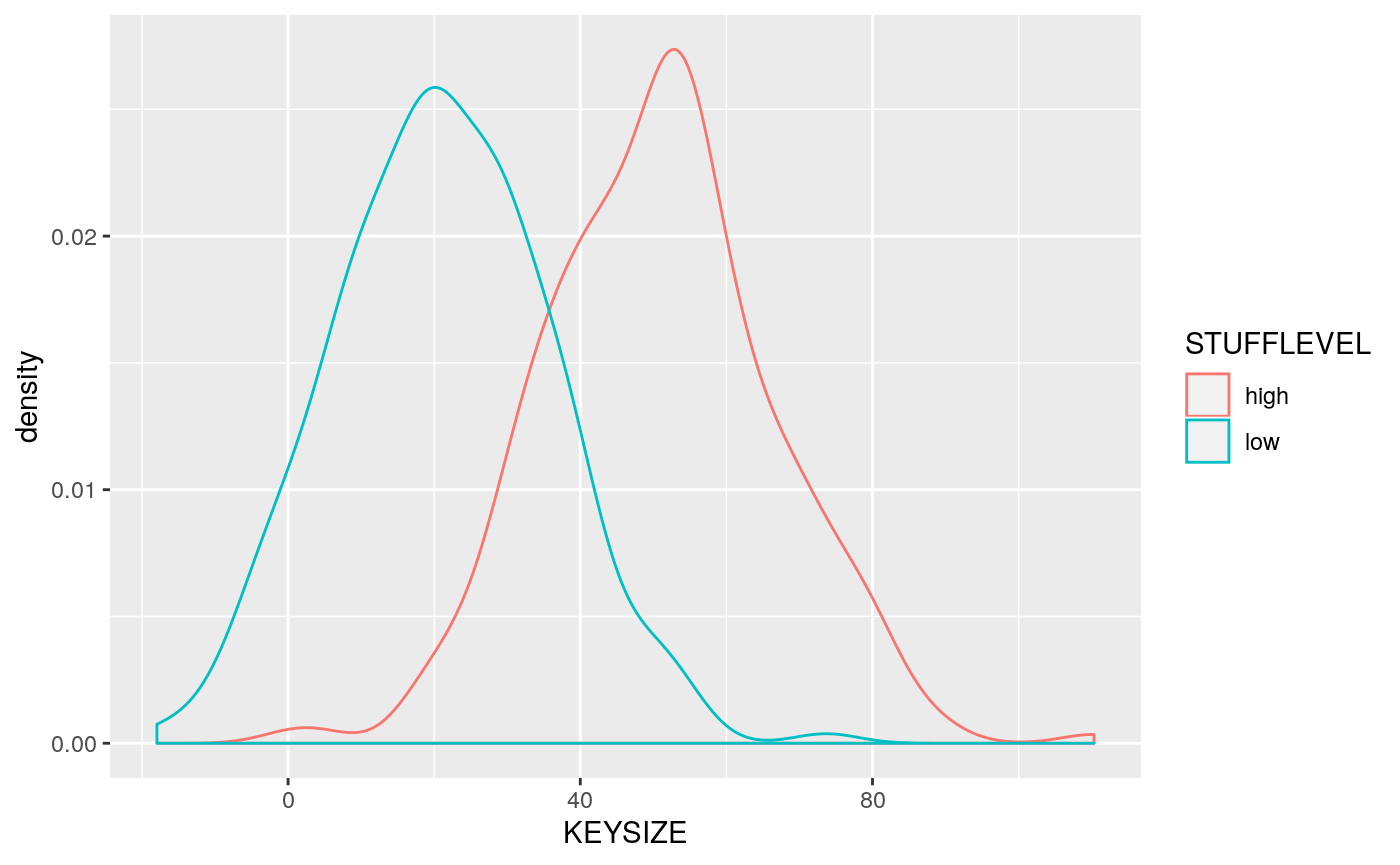
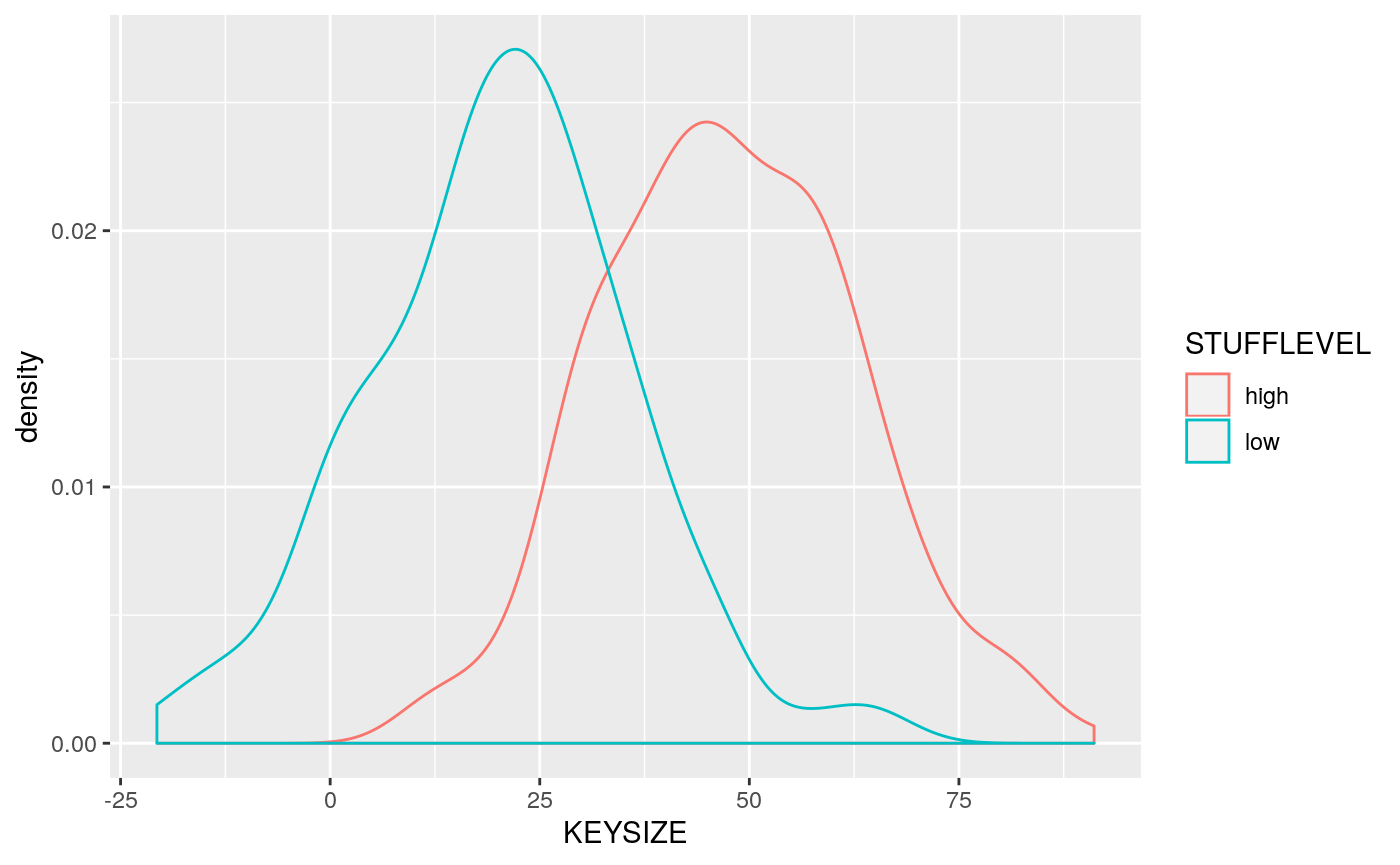
[skip ci] Publish GiHub Pages

diff --git a/articles/creating_synth_relational_data.html b/articles/creating_synth_relational_data.html
@@ -194,13 +194,13 @@
 <pre><code>## [1] "ID"          "STUFFLEVEL"  "KEYSIZE"     "ACCT_OPEN"   "ACCT_CLOSED"
 ## [1] "ID"          "STUFFLEVEL"  "KEYSIZE"     "ACCT_OPEN"   "ACCT_CLOSED"</code></pre>
 <div class="sourceCode" id="cb5"><pre class="sourceCode r"><code class="sourceCode r"><a class="sourceLine" id="cb5-1" data-line-number="1"><span class="kw"><a href="https://rdrr.io/r/utils/head.html">head</a></span>(sillydata)</a></code></pre></div>
-<pre><code>##      ID STUFFLEVEL   KEYSIZE           ACCT_OPEN         ACCT_CLOSED
-## 1 ID001        low  2.811080 2016-04-21 00:49:48                &lt;NA&gt;
-## 2 ID002        low 50.001182 2015-07-26 04:24:51 2019-07-12 04:33:41
-## 3 ID003        low  3.049715 2015-07-15 23:54:04                &lt;NA&gt;
-## 4 ID004       high 34.198571 2017-02-23 09:35:30 2020-12-21 12:42:29
-## 5 ID005        low 16.847966 2021-01-15 13:22:12                &lt;NA&gt;
-## 6 ID006       high 26.533729 2020-05-23 22:47:14                &lt;NA&gt;</code></pre>
+<pre><code>##      ID STUFFLEVEL  KEYSIZE           ACCT_OPEN         ACCT_CLOSED
+## 1 ID001       high 35.81611 2020-09-18 18:35:48                &lt;NA&gt;
+## 2 ID002       high 50.21808 2021-05-09 23:37:30                &lt;NA&gt;
+## 3 ID003        low 62.29862 2017-01-25 15:13:23 2020-04-01 08:29:49
+## 4 ID004        low 14.94920 2017-03-28 12:47:08                &lt;NA&gt;
+## 5 ID005       high 57.76937 2015-07-07 04:20:34                &lt;NA&gt;
+## 6 ID006        low 26.30120 2017-03-20 19:11:29 2018-08-28 20:02:48</code></pre>
 <p>We can see that the conditional distribution worked by plotting the data densities for each <code>STUFFLEVEL</code> value</p>
 <div class="sourceCode" id="cb7"><pre class="sourceCode r"><code class="sourceCode r"><a class="sourceLine" id="cb7-1" data-line-number="1"><span class="kw"><a href="https://rdrr.io/r/base/message.html">suppressPackageStartupMessages</a></span>(<span class="kw"><a href="https://rdrr.io/r/base/library.html">library</a></span>(ggplot2))</a>
 <a class="sourceLine" id="cb7-2" data-line-number="2"></a>
@@ -296,13 +296,13 @@
 ## [6] "BUYID"       "BUYDATE"     "PRODUCTID"   "DESC"       
 ## [1] "ID"        "BUYID"     "BUYDATE"   "PRODUCTID" "DESC"</code></pre>
 <div class="sourceCode" id="cb12"><pre class="sourceCode r"><code class="sourceCode r"><a class="sourceLine" id="cb12-1" data-line-number="1"><span class="kw"><a href="https://rdrr.io/r/utils/head.html">head</a></span>(buysdf)</a></code></pre></div>
-<pre><code>##      ID BUYID             BUYDATE PRODUCTID         DESC
-## 2 ID001    76 2016-09-15 10:30:54     PROD2 HLight Fluid
-## 1 ID001    85 2016-11-01 13:22:11     PROD1       Doodad
-## 5 ID001   197 2017-11-19 14:52:03     PROD2 HLight Fluid
-## 4 ID001  1022 2021-01-27 21:26:34     PROD1       Doodad
-## 3 ID001  1241 2021-06-04 06:00:48     PROD5     Thingbat
-## 7 ID004   142 2017-05-01 15:48:44     PROD5     Thingbat</code></pre>
+<pre><code>##      ID BUYID             BUYDATE PRODUCTID        DESC
+## 1 ID001   808 2020-10-04 12:12:15     PROD5    Thingbat
+## 2 ID001   896 2020-12-30 08:31:47     PROD1      Doodad
+## 3 ID001   946 2021-02-01 19:07:33     PROD4     Spanner
+## 4 ID001  1145 2021-05-23 14:48:34     PROD6 Thingbat v2
+## 7 ID002  1119 2021-05-14 09:42:45     PROD6 Thingbat v2
+## 5 ID002  1124 2021-05-15 05:12:53     PROD4     Spanner</code></pre>
 </div>
 </div>
   </div>

diff --git a/reference/lookup_fun.html b/reference/lookup_fun.html
@@ -149,16 +149,16 @@ it directly.</p>
     <h2 class="hasAnchor" id="examples"><a class="anchor" href="#examples"></a>Examples</h2>
     <pre class="examples"><div class='input'><span class='fu'>lookup_fun</span>(<span class='no'>rnorm</span>)</div><div class='output co'>#&gt; function (n, mean = 0, sd = 1) 
 #&gt; .Call(C_rnorm, n, mean, sd)
-#&gt; &lt;bytecode: 0x564475003e58&gt;
+#&gt; &lt;bytecode: 0x555ead2791c8&gt;
 #&gt; &lt;environment: namespace:stats&gt;</div><div class='input'><span class='fu'>lookup_fun</span>(<span class='st'>"rnorm"</span>)</div><div class='output co'>#&gt; function (n, mean = 0, sd = 1) 
 #&gt; .Call(C_rnorm, n, mean, sd)
-#&gt; &lt;bytecode: 0x564475003e58&gt;
+#&gt; &lt;bytecode: 0x555ead2791c8&gt;
 #&gt; &lt;environment: namespace:stats&gt;</div><div class='input'><span class='fu'>lookup_fun</span>(<span class='st'>"stats::rnorm"</span>)</div><div class='output co'>#&gt; function (n, mean = 0, sd = 1) 
 #&gt; .Call(C_rnorm, n, mean, sd)
-#&gt; &lt;bytecode: 0x564475003e58&gt;
+#&gt; &lt;bytecode: 0x555ead2791c8&gt;
 #&gt; &lt;environment: namespace:stats&gt;</div><div class='input'><span class='fu'>lookup_fun</span>(<span class='st'>"stats:::rnorm"</span>)</div><div class='output co'>#&gt; function (n, mean = 0, sd = 1) 
 #&gt; .Call(C_rnorm, n, mean, sd)
-#&gt; &lt;bytecode: 0x564475003e58&gt;
+#&gt; &lt;bytecode: 0x555ead2791c8&gt;
 #&gt; &lt;environment: namespace:stats&gt;</div></pre>
   </div>
   <div class="col-md-3 hidden-xs hidden-sm" id="sidebar">
